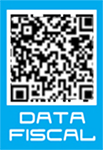
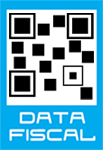
Se agrega el QR fiscal, Video en empresa, se modifican las imagenes de la home y se cambia el telefono.
Se agregan las redes sociales y se configuran los correos de destino en contato

diff --git a/resources/views/empresa.blade.php b/resources/views/empresa.blade.php
@@ -32,15 +32,15 @@
           nuevos sistemas de almacenamiento, equipos y maquinaria con el fin de mejorar nuestro
           servicio de entrega.</p>
         <p>Trabajamos en la formación de nuestro personal de ventas y nuestros asesores, para que
-            nuestros clientes carpinteros, arquitectos, constructores, público en general cuenten con el
-            mejor asesoramiento sobre productos, tendencias, tecnologías y todo aquello que colabore a
-            la construcción de sus proyectos.</p>
+          nuestros clientes carpinteros, arquitectos, constructores, público en general cuenten con el
+          mejor asesoramiento sobre productos, tendencias, tecnologías y todo aquello que colabore a
+          la construcción de sus proyectos.</p>
         <p> Nuestra empresa esta posicionada como un referente del rubro. La atención, el servicio, el
-            compromiso y por supuesto la calidad es NUESTRO sello.</p>
+          compromiso y por supuesto la calidad es NUESTRO sello.</p>
       </div>
 
       <!-- fotos -->
-      <div class="col-md-5 p-0 m-0 d-none d-md-block">
+      <div class="col-md-5 p-2 m-0 d-md-block">
         {{-- <img src="{{ asset('img/empresa/empresa.png') }}" class="w-100" alt=""> --}}
         <div class="ratio ratio-16x9">
           <iframe src="https://www.youtube.com/embed/DGIy4iyT-Uk" frameborder="0" allowfullscreen></iframe>
@@ -55,10 +55,10 @@
         <img src="{{ asset('img/empresa/mision.png') }}" class="mb-3 shadow rounded-circle" alt="Nuestra misión">
         <h4 class="h5 text-primary bold">Misión</h4>
         <p><small>Proveer al mercado productos y servicios diferenciados que ayuden a alcanzar sus
-              aspiraciones.</small></p>
+            aspiraciones.</small></p>
         <p><small>Potenciar cada detalle para llevar el diseño de sus proyectos a su mejor nivel.</small></p>
         <small>Trabajamos para mejorar la tecnología, las herramientas y equipo de ventas para brindar la
-            mejor experiencia a nuestros clientes.</small>
+          mejor experiencia a nuestros clientes.</small>
       </div>
 
       <hr class="border border-primary my-4 w-75 mx-auto d-lg-none d-sm-block">
@@ -69,8 +69,8 @@
         <h4 class="h5 text-primary bold">Visión</h4>
         <p><small>Constituirnos como una empresa destacada por la calidad, el servicio y la responsabilidad.</small></p>
         <p><small>En nuestra búsqueda privilegiar el compromiso hacia el entendimiento y la cooperación con los
-          gremios asociados.</small></p>
-        <small>Ser ese socio estratégico que acompaña el crecimiento de nuestros clientes.</small>      
+            gremios asociados.</small></p>
+        <small>Ser ese socio estratégico que acompaña el crecimiento de nuestros clientes.</small>
       </div>
 
       <hr class="border border-primary my-4 w-75 mx-auto d-lg-none d-sm-block">
@@ -80,9 +80,9 @@
         <img src="{{ asset('img/empresa/calidad.png') }}" class="mb-3 shadow rounded-circle"
           alt="Calidad de nuestros productos">
         <h4 class="h5 text-primary bold">Valores</h4>
-        <p><small>Queremos destacar nuestra responsabilidad social y comercial.</small></p> 
+        <p><small>Queremos destacar nuestra responsabilidad social y comercial.</small></p>
         <p><small>La innovación y creatividad en
-          nuestros productos. </small></p>
+            nuestros productos. </small></p>
         <small>La calidad y honestidad en lo comercial, siempre con el compromiso ético
           que nos caracterizó a lo largo de nuestra historia.</small>
       </div>

diff --git a/resources/views/layouts/partials/footer.blade.php b/resources/views/layouts/partials/footer.blade.php
@@ -16,7 +16,7 @@
           </div>
           <!-- categorias -->
           <div class="col-md-3 mb-3">
-            <p class="h6 fw-bold text-white">Categorías de productos</p>
+            <p class="h6 fw-bold text-white">Menú</p>
             <ul class="list-unstyled text-white-50 light">
               <li><a href="{{ route('empresa') }}" class="text-decoration-none link-light"
                   title="Saber más sobre la Empresa"> Empresa
